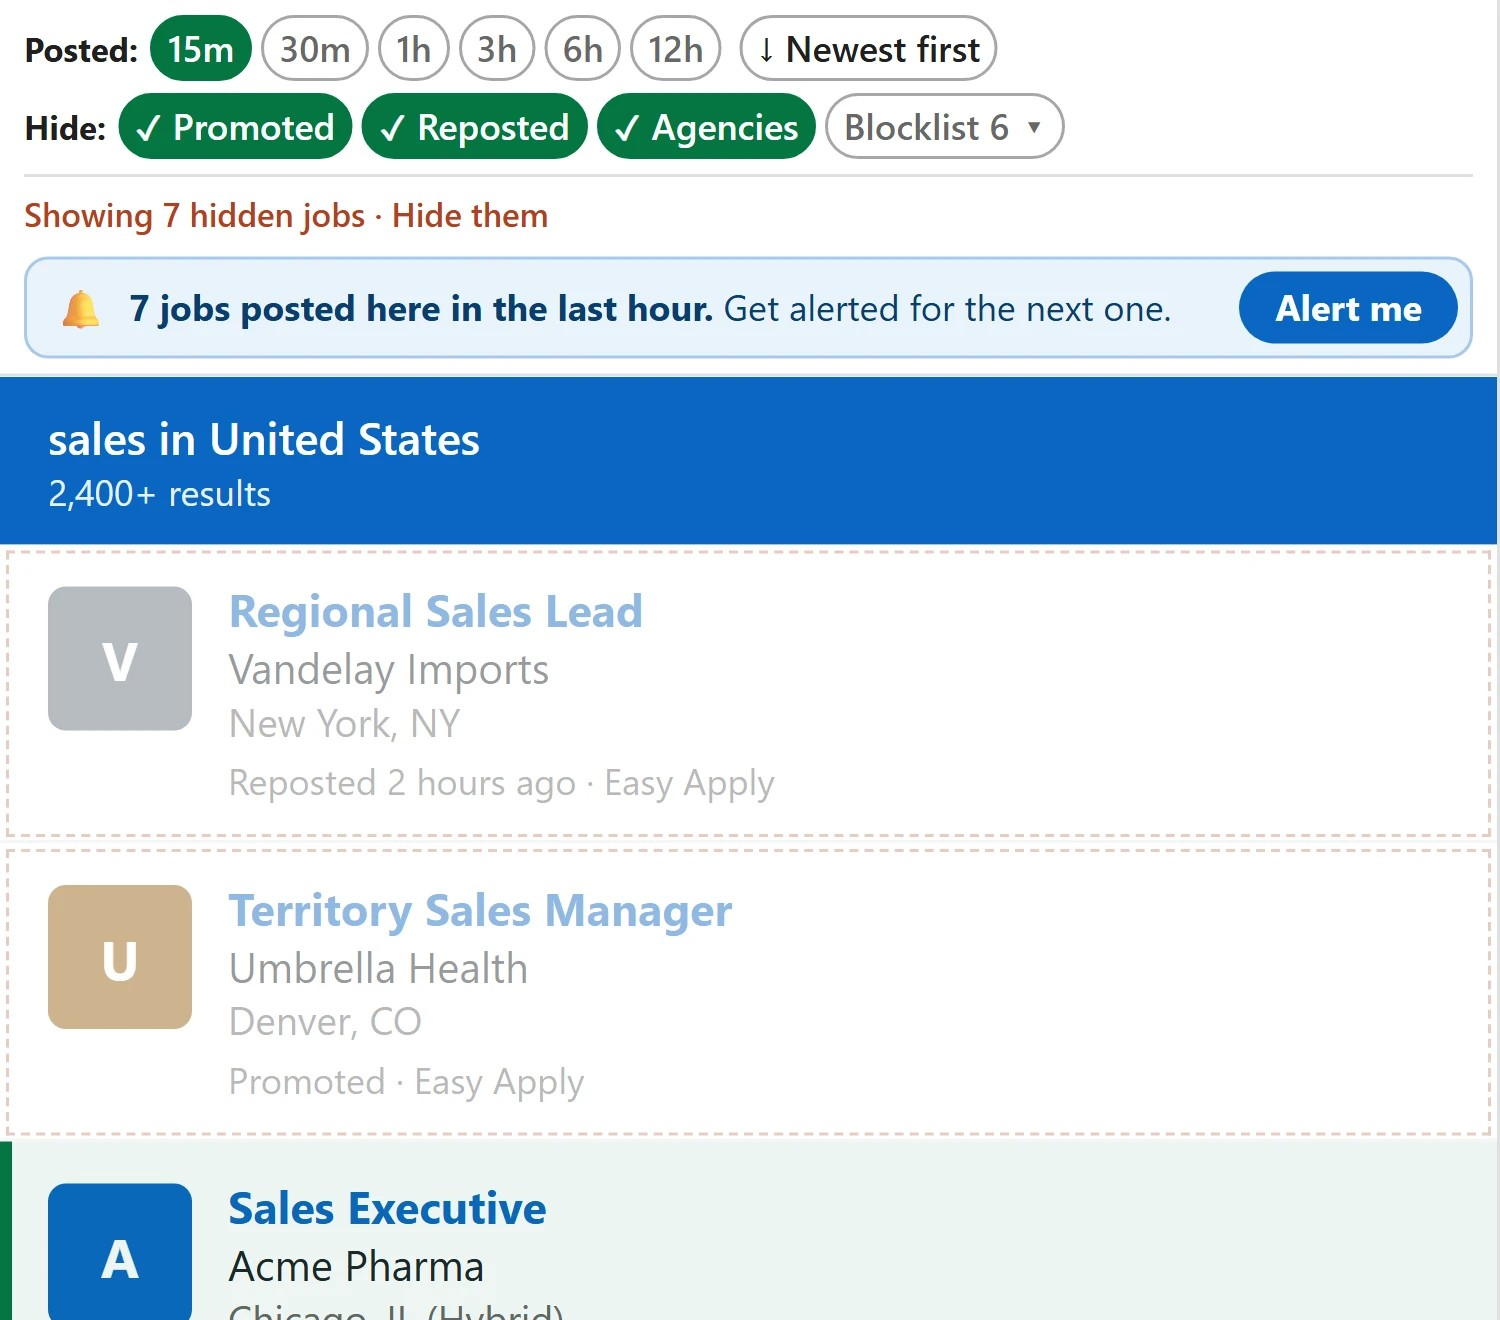
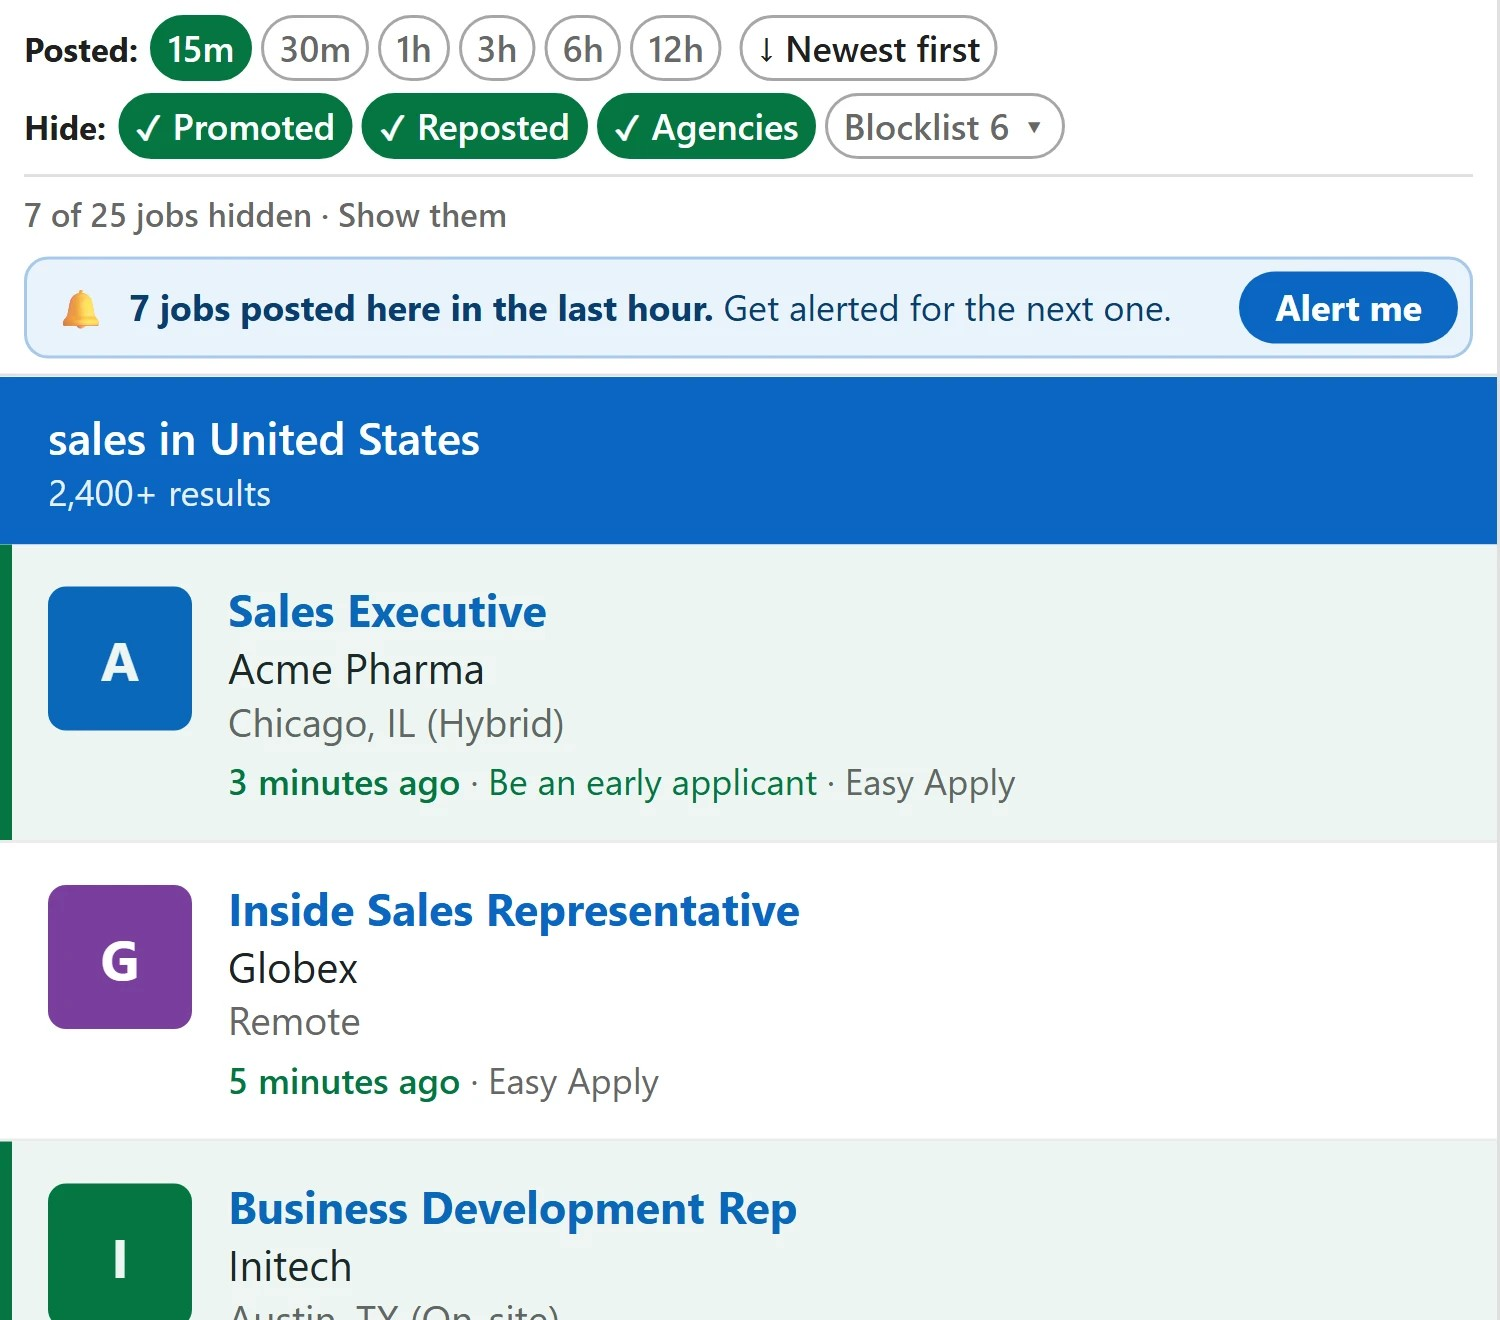
Site: promoted-jobs hero screenshot shows the real hidden state

diff --git a/hide-promoted-reposted-jobs-linkedin.html b/hide-promoted-reposted-jobs-linkedin.html
@@ -115,8 +115,8 @@
     </div>
   </div>
   <figure class="shot">
-    <picture><source srcset="img/hero-hide-promoted.webp" type="image/webp"><img src="img/hero-hide-promoted.jpg" alt="EarlyApply on the LinkedIn jobs page: the Hide Promoted, Reposted and Agencies buttons are on, and a Promoted job and a Reposted job are shown faded as hidden" width="500" height="440" fetchpriority="high"></picture>
-    <figcaption>Promoted and Reposted jobs are faded here so you can see what gets hidden (demo screenshot, made-up jobs)</figcaption>
+    <picture><source srcset="img/hero-hide-promoted.webp" type="image/webp"><img src="img/hero-hide-promoted.jpg" alt="EarlyApply on the LinkedIn jobs page: the Hide Promoted, Reposted and Agencies buttons are on, those jobs are gone from the list, and the bar says 7 of 25 jobs hidden" width="500" height="440" fetchpriority="high"></picture>
+    <figcaption>With Hide Promoted, Reposted and Agencies on, those jobs are gone from the list. The bar tells you how many were hidden. (Demo screenshot, made-up jobs.)</figcaption>
   </figure>
 </section>
 
